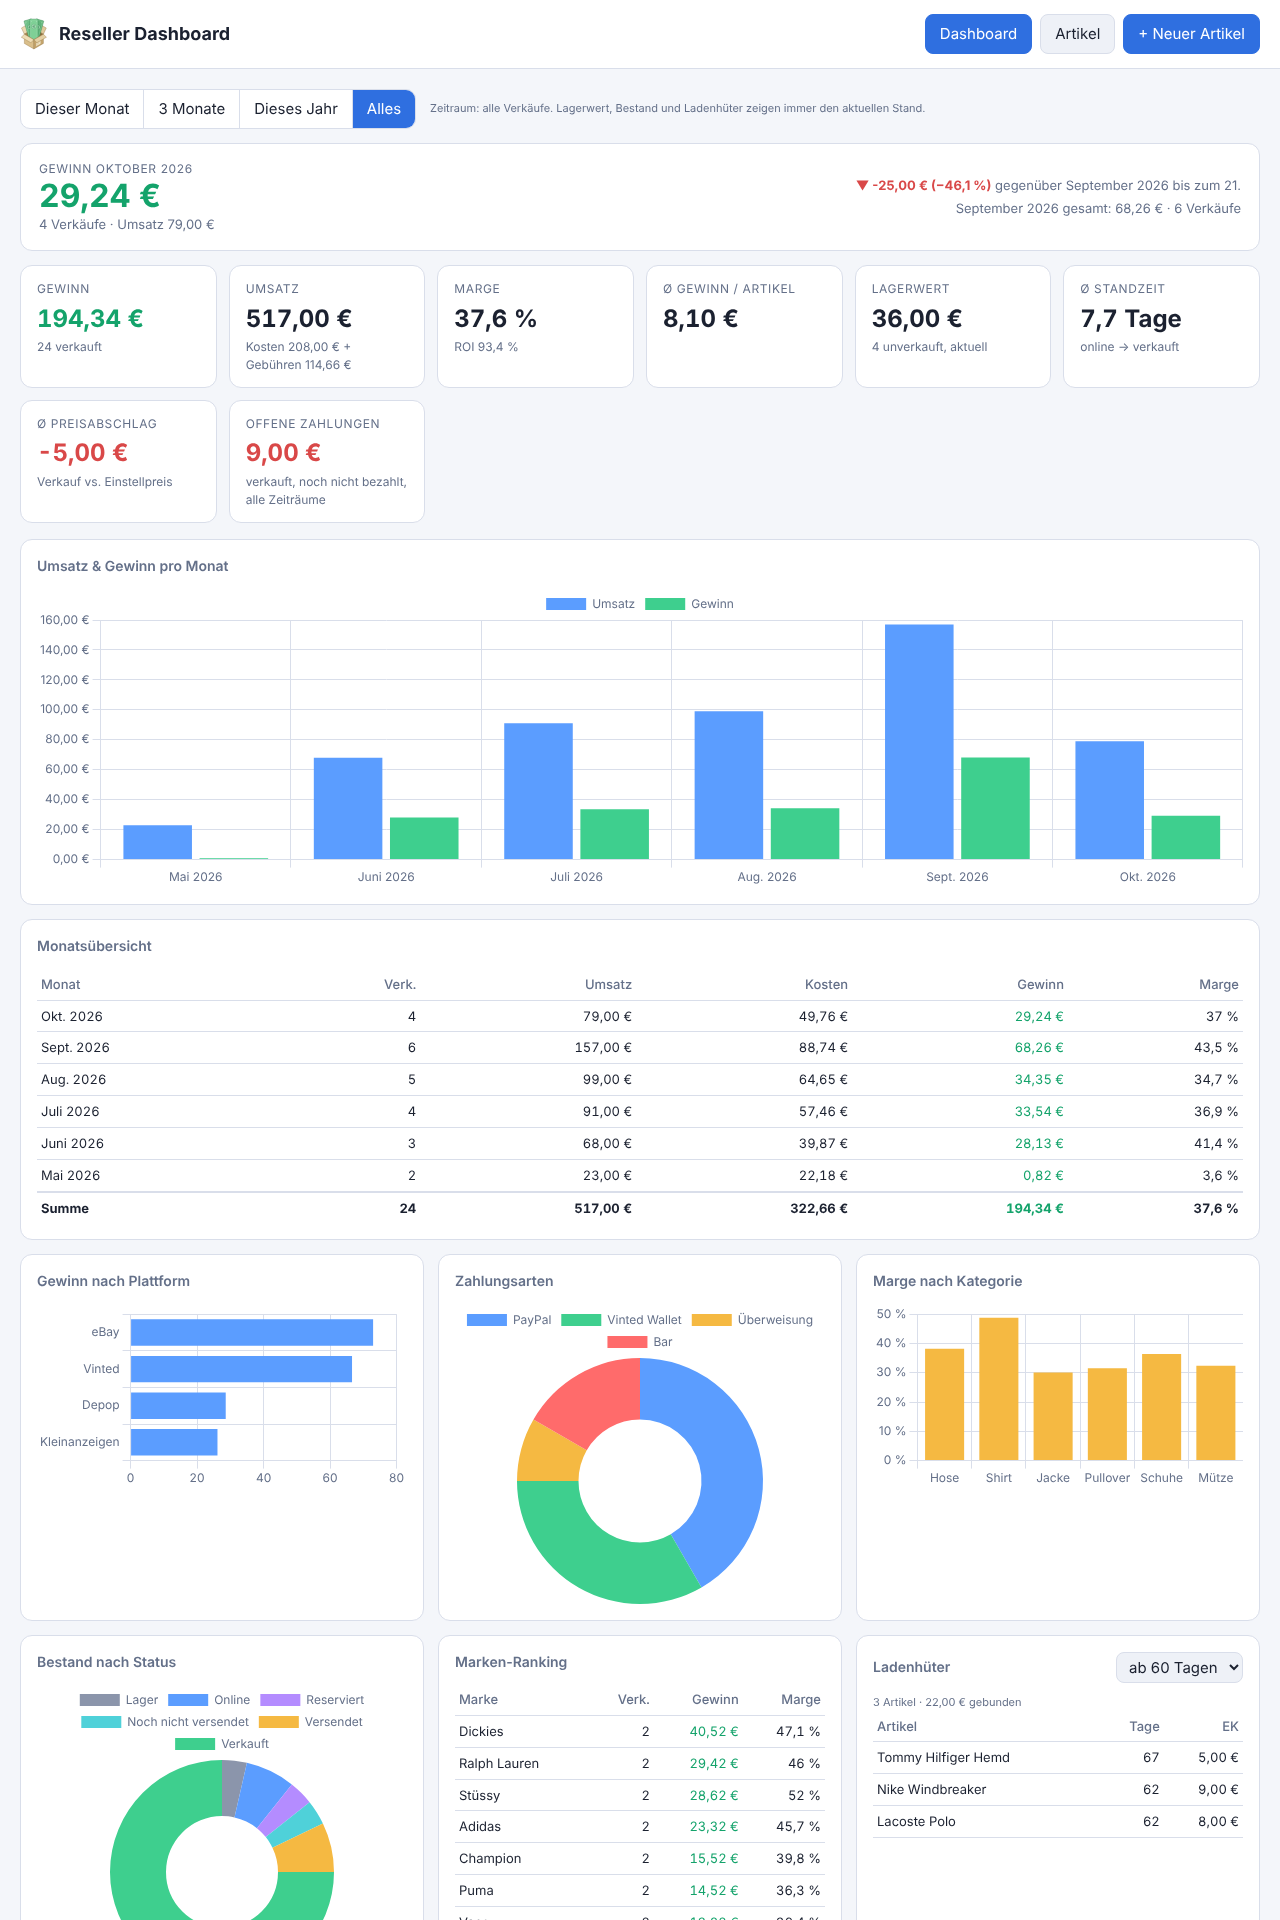
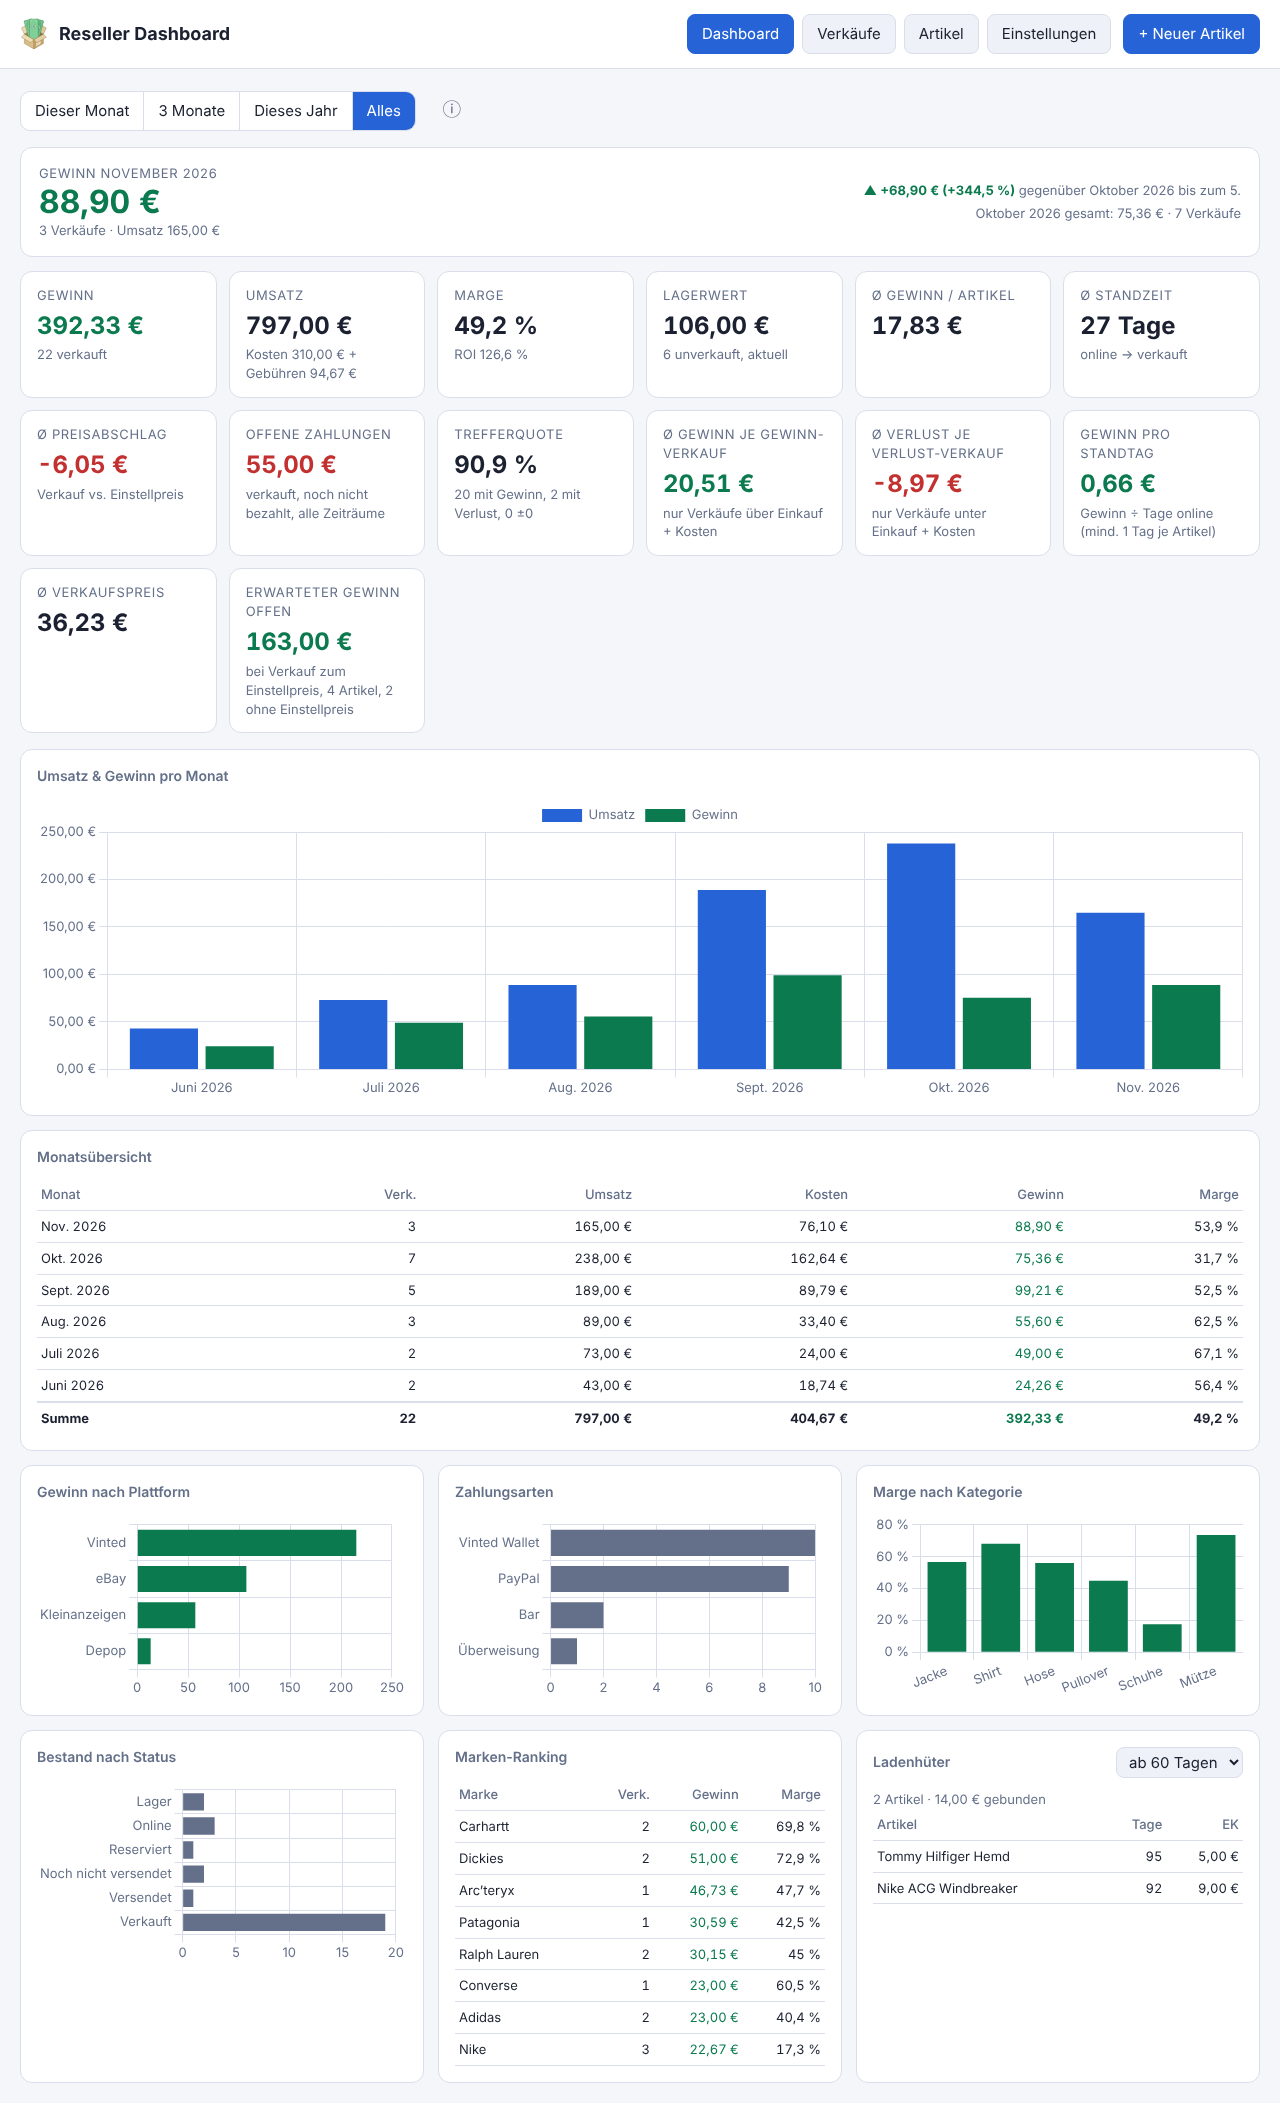
README: neue Screenshots vom aktuellen Stand
- Dashboard und Artikelliste neu aufgenommen (Navigation mit Verkäufe und Einstellungen,
  Zusatzkennzahlen, Sortierung und Trefferzahl in der Liste)
- Neu: Verkäufe-Ansicht (kumulierter Gewinn, Streudiagramm, Gewinn nach Gruppe,
  beste und schwächste Verkäufe) und eine Handy-Ansicht (Dashboard und Artikelliste)
- Kurze Beschreibung zu jedem Bild

Aufgenommen mit Chrome (Playwright), 1280 px breit, helles Design, mit erfundenen
Beispielartikeln und einfarbigen Platzhalterfotos.

Claude-Session: https://claude.ai/code/session_01Rgj79y2h6AekjLiYgHRrim

diff --git a/README.md b/README.md
@@ -9,11 +9,25 @@ Stack: Node.js, Express, SQLite (better-sqlite3), Chart.js, Vanilla-JS-Frontend.
 
 ## Oberfläche
 
-Beispieldaten, keine echten Artikel.
+Beispieldaten, keine echten Artikel und keine echten Fotos.
 
-![Dashboard mit Gewinn, Monatsvergleich, Auswertungen und Ladenhütern](docs/screenshots/dashboard.png)
+**Dashboard:** Gewinn des Monats mit Vormonatsvergleich, Kennzahlen, Monatsübersicht, Auswertungen nach Plattform,
+Zahlungsart, Kategorie und Marke, Ladenhüter.
 
-![Artikelliste mit Status, Bildern und CSV-Export](docs/screenshots/artikel.png)
+![Dashboard mit Monatsgewinn, Kennzahlen, Monatsübersicht, Auswertungen und Ladenhütern](docs/screenshots/dashboard.png)
+
+**Verkäufe:** kumulierter Gewinn, Einkauf gegen Verkauf je Artikel, Gewinn nach Gruppe, beste und schwächste Verkäufe.
+Darunter folgt die sortierbare Tabelle aller Verkäufe.
+
+![Verkäufe-Ansicht mit kumuliertem Gewinn, Streudiagramm, Gewinn nach Plattform sowie besten und schwächsten Verkäufen](docs/screenshots/verkaeufe.png)
+
+**Artikel:** Liste mit Status, Fotos, Suche, Filter, Sortierung und CSV-Export.
+
+![Artikelliste mit Status, Fotos, Suche, Filter und Sortierung](docs/screenshots/artikel.png)
+
+**Am Handy:** Tab-Leiste unten und Plus-Knopf für neue Artikel.
+
+![Dashboard und Artikelliste auf dem iPhone](docs/screenshots/handy.png)
 
 ## Starten mit Docker
 
